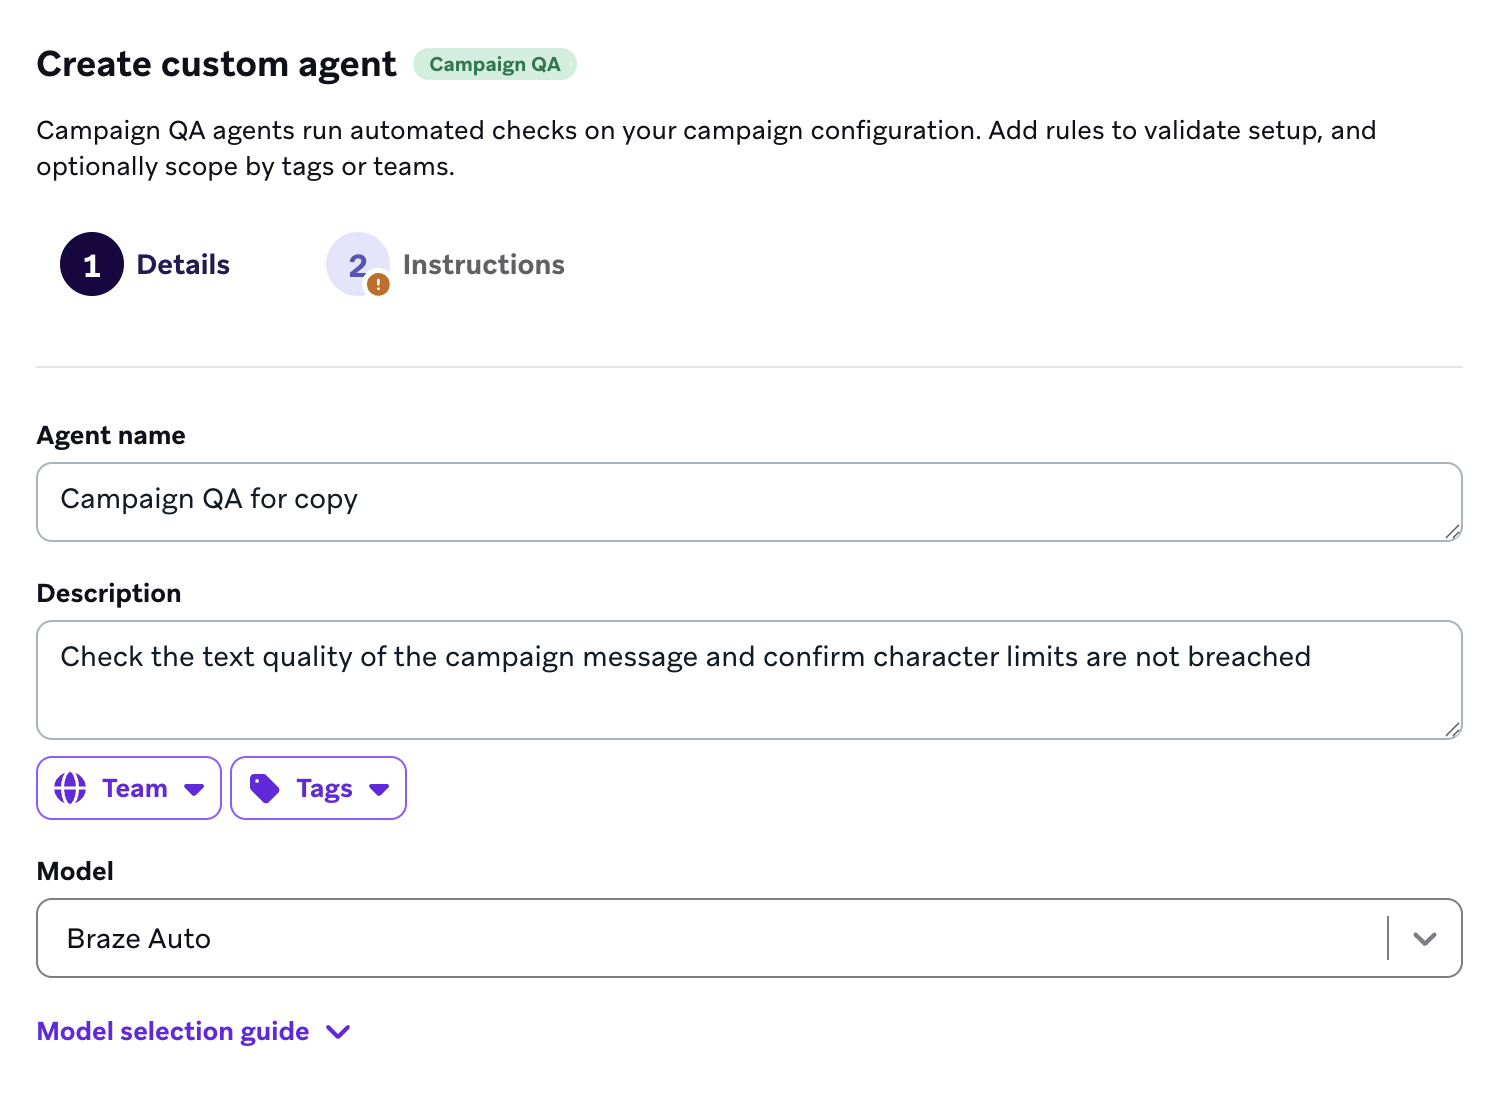
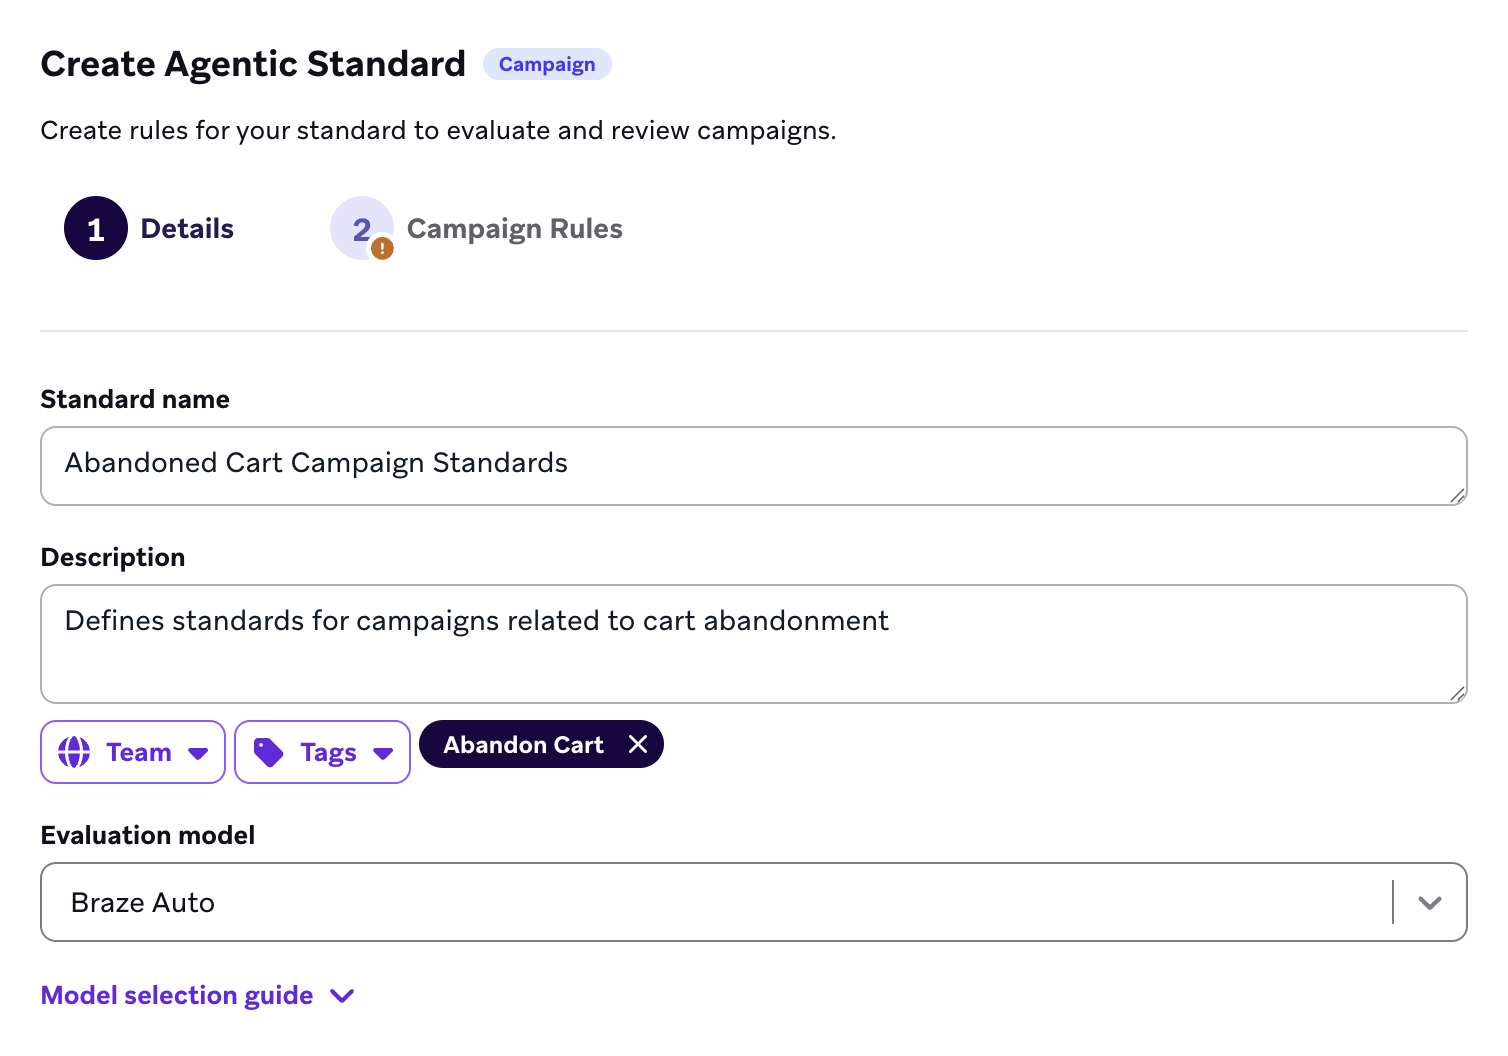
Update Campaign QA Agent to Agentic Standards (#15415)

diff --git a/_docs/_unlisted_docs/private_betas/agentic_standards.md b/_docs/_unlisted_docs/private_betas/agentic_standards.md
@@ -1,0 +1,113 @@
+---
+nav_title: Agentic Standards
+article_title: Agentic Standards
+permalink: /campaign_qa_agent/
+description: "This reference article covers Agentic Standards, including how Campaign Standards work and best practices."
+hidden: true
+---
+
+# Agentic Standards
+
+> Agentic Standards are rules and rulesets to enforce enterprise policies and guardrails on campaigns in Braze. They are followed by Operator during the build and edit process. These standards can be agentically evaluated before a campaign launches to act as a final safeguard to validate against brand guidelines, organizational conventions, and technical requirements before you launch.
+
+Agentic Standards reduce manual oversight so every message Braze sends is accurate, compliant, and launch-ready.
+
+{% alert important %}
+Agentic Standards for Agent Console are currently in beta. Contact your Braze account manager if you're interested in participating in this beta.
+{% endalert %}
+
+## How it works
+
+When you create a Campaign Standard, you define specific rules, grouped into "rulesets", that Operator follows and evaluates before you launch a campaign. You can choose from pre-built rulesets covering common marketing needs or create custom rules specific to your team.
+
+When configured, you can test the Campaign Standard in the **Evaluation preview** pane against any existing campaign in your workspace. The agentic evaluation provides a detailed report with categories of its findings.
+
+## Create a Campaign Standard
+
+### Step 1: Choose the standard type
+
+To create your standard, go to **Agent Console** > **Agentic Standards**. Select **Create Agentic Standard** and choose **Campaign Standards** from the dropdown menu.
+
+### Step 2: Set up details
+
+Next, set up the details for your standard:
+
+1. Enter a name and description to help your team understand its purpose.
+2. (Optional) Add tags to filter your standard.
+3. Choose the evaluation model for your standard to use. This powers the agentic evaluation of a standard.
+
+![A Campaign Standard "Abandoned Cart Campaign Standards" that defines the rules and rulesets for Abandoned Cart Campaigns in Braze.]({% image_buster /assets/unlisted_docs/img/campaign_qa_agent/campaign_qa_details.png %}){: style="max-width:80%;"}
+
+### Step 3: Configure campaign rules
+
+In the **Campaign Rules** step, define the rules that should be enforced as part of this standard. You can add up to 10 rulesets per standard, and up to 20 rules per ruleset.
+
+Select **Add ruleset** to see a list of the following categories:
+
+- **Campaign setup:** Validates naming conventions, tags, and conversion tracking.
+- **Audience and targeting:** Checks segments, exclusions, and audience size.
+- **Content and copy:** Defines requirements for text quality, character limits, and message completeness.
+- **Links and tracking:** Verifies URLs, CTAs, deep links, and UTM parameters.
+- **Personalization and dynamic content:** Defines checks for Liquid logic and fallback values.
+- **Compliance and deliverability:** Defines requirements for legal obligations and sending safeguards.
+- **Custom rules:** Select **Create custom ruleset** to define unique requirements that don't fit cleanly into any of the pre-configured categories.
+
+If you aren't sure how to phrase a rule, select **Generate with Operator** to have Operator help you draft specific logic based on your requirements.
+
+![Four rules set up for the Audience and targeting category.]({% image_buster /assets/unlisted_docs/img/campaign_qa_agent/campaign_qa_instructions.png %}){: style="max-width:80%;"}
+
+### Step 4: Test your standard
+
+Before using your standard for campaigns in Braze, use the **Evaluation preview** pane to simulate an agentic evaluation.
+
+1. Choose an existing campaign from the dropdown menu to use as a test case.
+2. Choose to test all rulesets or a specific one.
+3. Select the **Simulate response** button.
+
+Next, review the results. The evaluation runs against the campaign and displays results in the following categories:
+
+- **Pass:** These rules were met successfully. For example, the evaluation can confirm that your naming conventions match expected patterns.
+- **Warning:** These are non-critical issues that may require attention. For example, if you are testing an email ruleset against a webhook campaign, the agentic evaluation may issue a warning that sender names do not apply.
+- **Fail:** These are critical issues that should be fixed before launch. Examples include scheduled dates that are in the past or missing required organizational tags.
+
+## Use Agentic Standards
+
+After you have configured a Campaign Standard, you can use it to evaluate any campaign during the final review process. This confirms your campaign meets all requirements before it is sent to your users.
+
+### Run an evaluation
+
+To run an automated evaluation, go to the **Review Summary** step of your campaign creation workflow.
+
+1. Go to the **Agentic Standards** section and select your desired standard from the dropdown menu.
+2. Select **Run evaluation**.
+
+If you make changes to your campaign after running an initial evaluation, select **Re-run evaluation** to refresh the results.
+
+### Review evaluation results
+
+After the evaluation is complete, a summary shows the findings in these categories: **Pass**, **Fail**, and **Warning**.
+ 
+The **Fail** tab lists rules that were not met. For each failure, the standard provides the:
+
+- **Rule:** The specific criteria being checked, such as "Spelling & Grammar Check".
+- **Reason:** An explanation of why the check failed. For example, the evaluation might identify that "personalized" was used instead of the Australian English spelling "personalised".
+
+The **Pass** tab lists all rules that your campaign successfully followed. This confirms that checks like **Offensive Language Detection** or **Naming Convention Validation** have been cleared.
+
+The **Warning** tab lists non-critical issues that may require attention. For example, if you're testing an email ruleset against a webhook campaign, the evaluation of the standard may yield a warning that sender names do not apply. 
+
+### Resolve or ignore issues
+
+For every identified failure or warning, you can decide how to proceed before launching. Select **Resolve** next to an issue, then select from the following options:
+
+- **Mark as fixed:** Select this after you have updated your campaign configuration or copy based on the evaluation suggestion.
+- **Ignore this issue:** Select this to skip the issue for this run only. This is useful for intentional deviations or edge cases where the evaluation suggestion may not apply.
+- **Ask BrazeAI Operator:** Select this to fix the issue using Operator.
+
+After all critical issues are resolved or ignored, you can proceed to launch your campaign.
+
+## Best practices
+
+- **Start with templates:** Use the pre-built rulesets for campaign setup and links and tracking first, as these cover the most common manual errors and give the agentic evaluation the right context.
+- **Be specific:** When writing custom rules, provide clear examples of what "correct" looks like. For example, instead of writing "Check the naming convention," try "The campaign name starts with the current year (for example, 2026_)."
+- **Iterate often:** As your brand guidelines or internal processes change, update your Campaign Standard rulesets to keep your automated checks relevant.

diff --git a/docs/contributing/style_guide/writing_style_guide.md b/docs/contributing/style_guide/writing_style_guide.md
@@ -2265,6 +2265,9 @@ Lowercase except when referring to a UI element that is capitalized.
 ⛔ **ad hoc**
 Don’t use. Use “one-time” or similar.
 
+**Agentic Standards**  
+Always capitalized. When referring to standards without the “Agentic” prefix, use lowercase “standard” or “standards”.
+
 **AI**  
 Preferred over "artificial intelligence" after the first mention.
 
@@ -2357,6 +2360,9 @@ Use when differentiating between the original Canvas editor and Canvas Flow. Oth
 
 **campaign**  
 Lowercase except when referring to a UI element that is capitalized.
+
+**Campaign Standards**  
+Always capitalized. When referring to standards without the “Campaign” prefix, use lowercase “standard” or “standards”.
 
 **capacity**  
 Use when referring to custom data limits instead of the word "limit."
